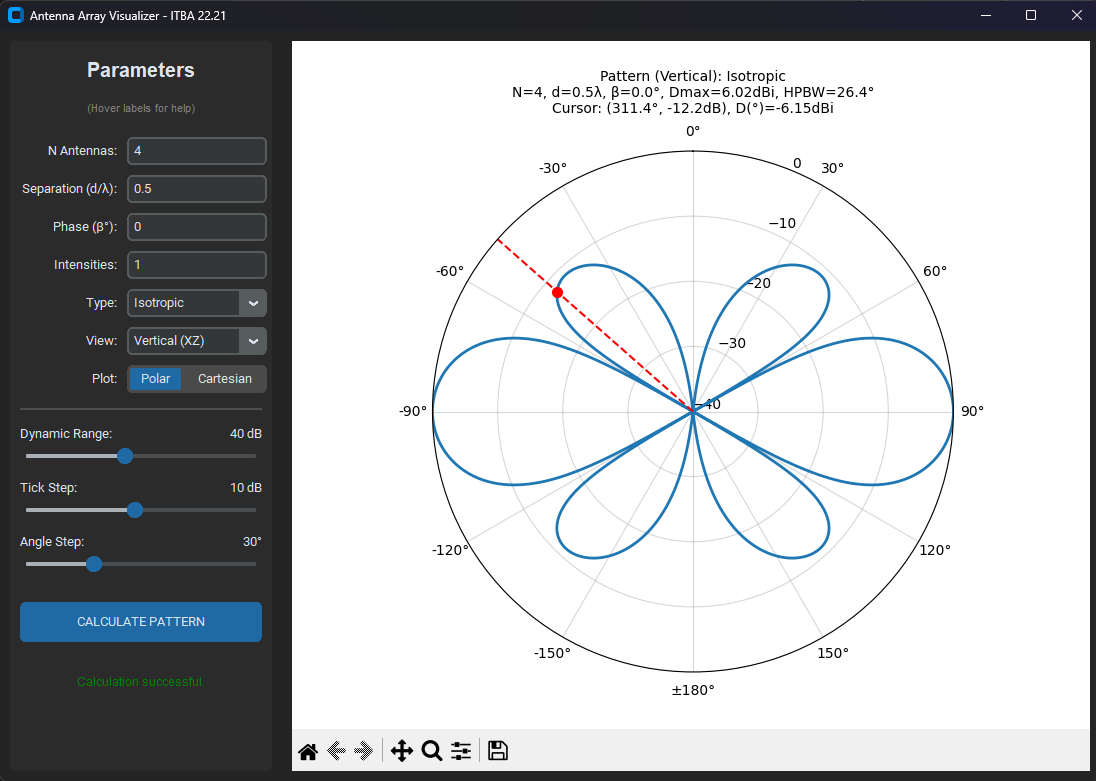
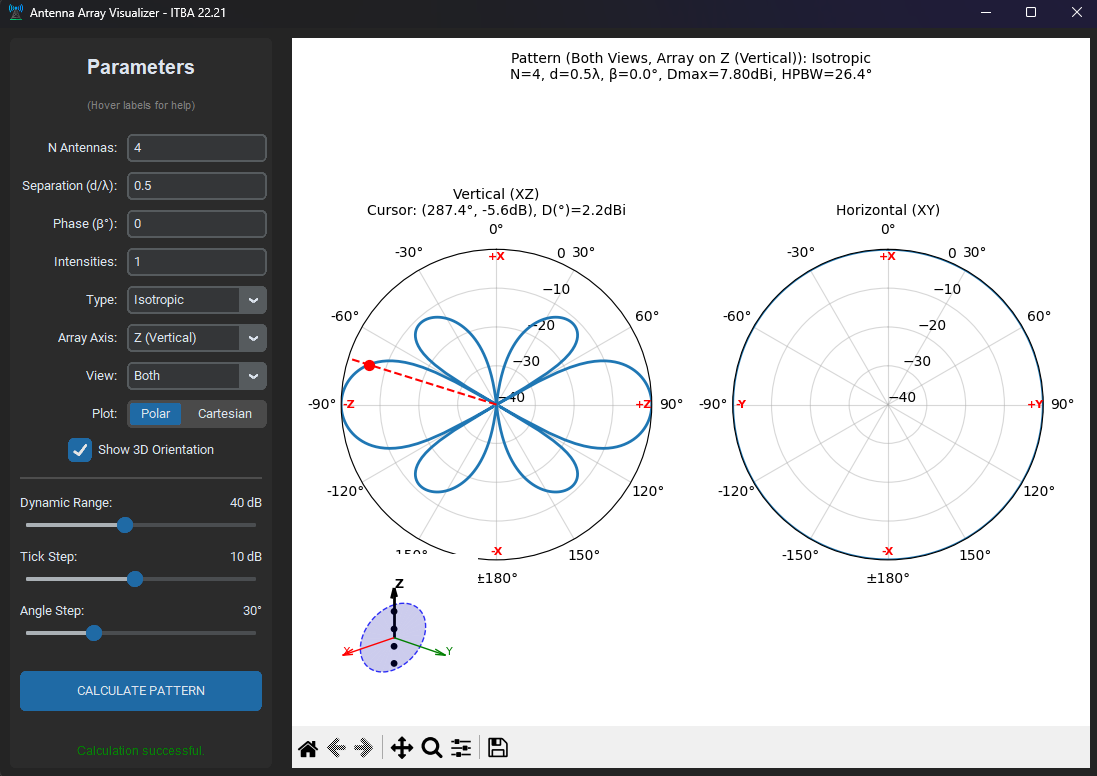
Update README to include 'Both' view option for dual visualization

diff --git a/README.md b/README.md
@@ -13,7 +13,7 @@ A simple desktop application to calculate and visualize the radiation pattern of
     *   Separation between antennas (d/λ).
     *   Progressive phase shift (β in degrees) for beam steering.
     *   Current intensities for each element (supports uniform or custom distributions).
-*   Multiple views: Vertical (Elevation/Theta) and Horizontal (Azimuth/Phi) planes.
+*   Multiple views: Vertical (Elevation/Theta), Horizontal (Azimuth/Phi), and Both (dual view visualization).
 *   Plot types: Polar (directional) and Cartesian (rectangular) coordinate systems.
 *   Customizable plot settings:
     *   Dynamic range (dB floor).
